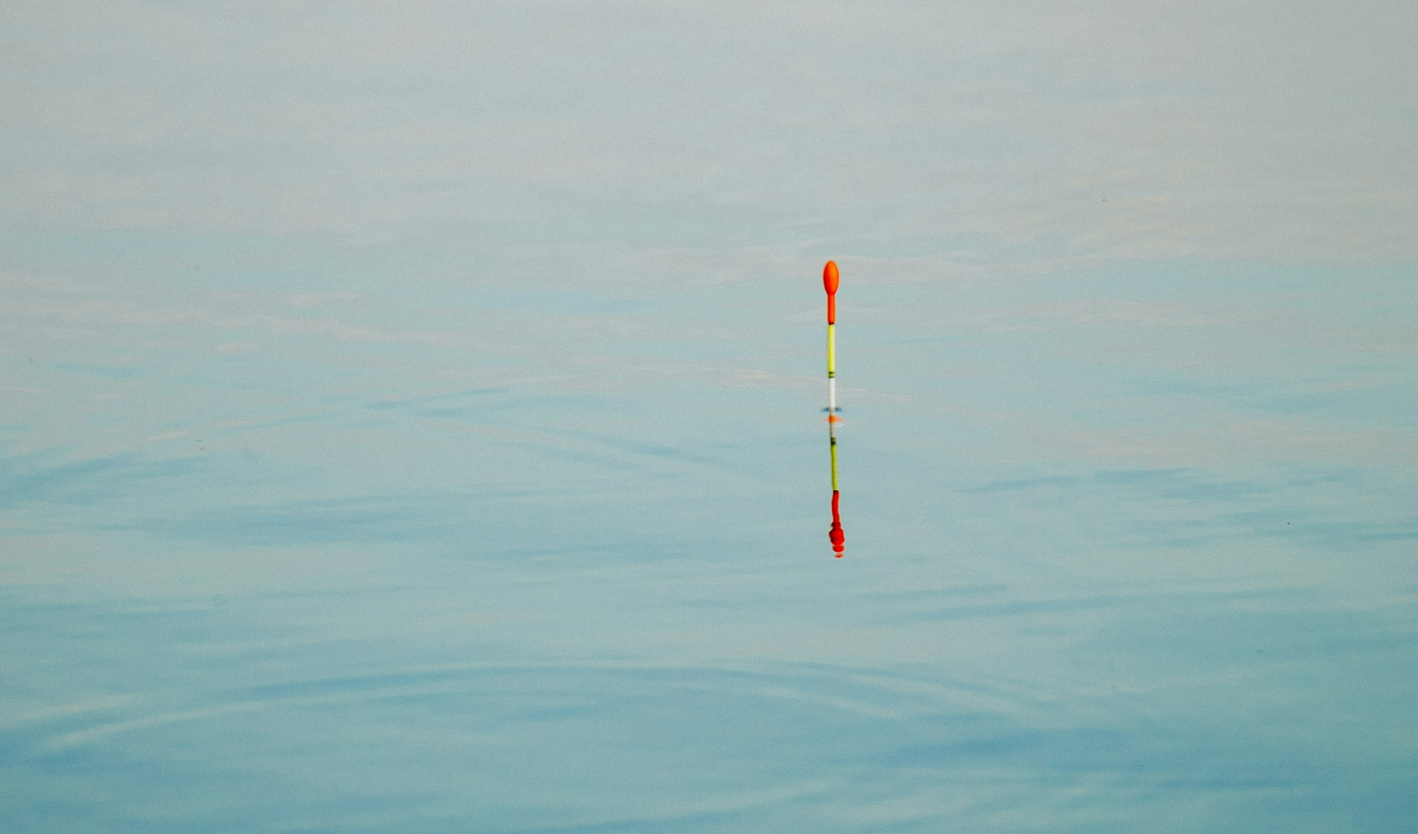
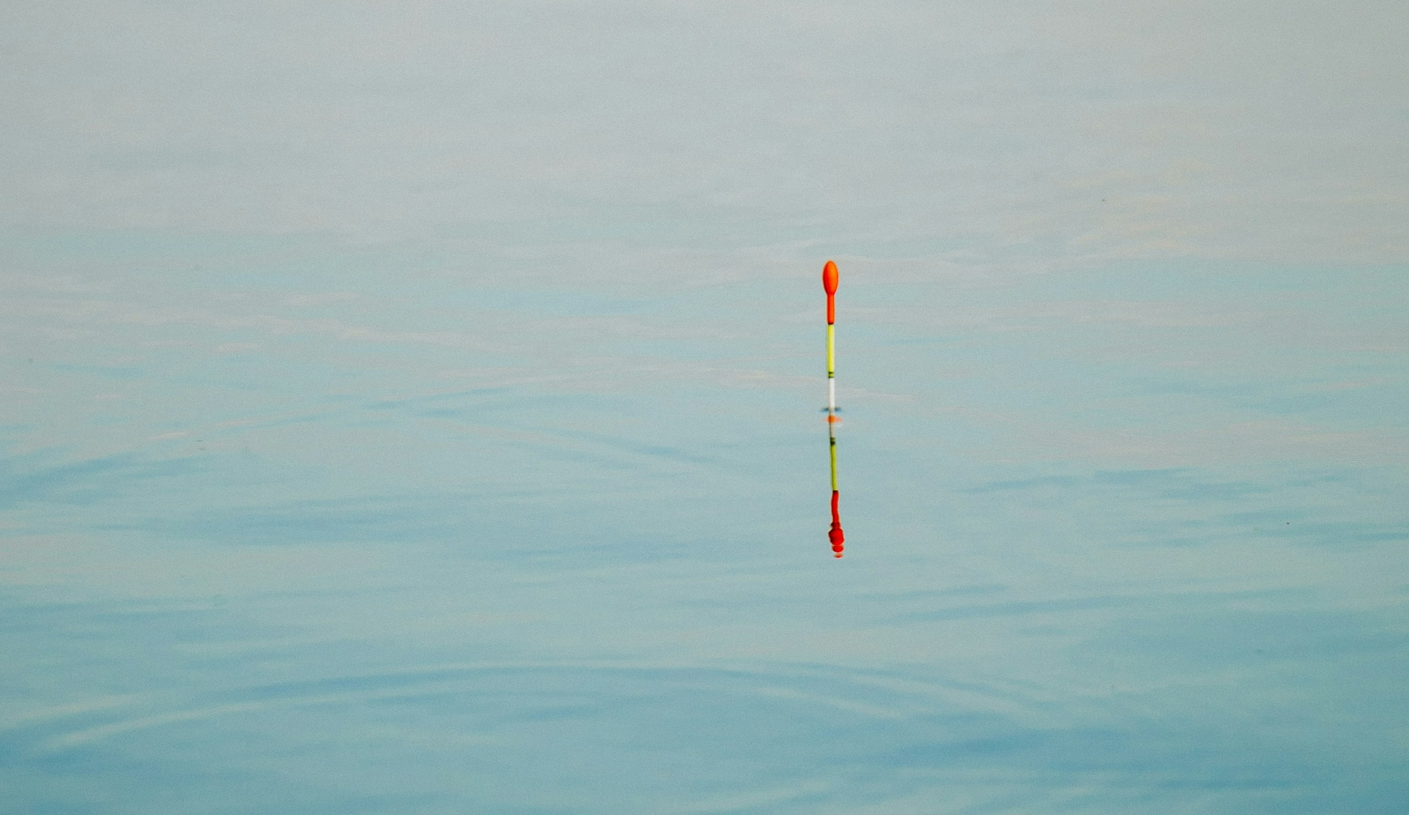
feat: nya uppdateringar fotopolicy

diff --git a/src/content.config.ts b/src/content.config.ts
@@ -8,6 +8,9 @@ const destinations = defineCollection({
     slug: z.string(),
     description: z.string(),
     heroImage: z.string(),
+    heroSource: z.enum(['illustration', 'photo']).default('illustration'),
+    heroCredit: z.string().optional(),        // fotografens namn, krävs när heroSource === 'photo'
+    heroCreditUrl: z.string().url().optional(),
     lat: z.number(),
     lng: z.number(),
     län: z.string(),
@@ -29,6 +32,9 @@ const species = defineCollection({
     slug: z.string(),
     description: z.string(),
     heroImage: z.string(),
+    heroSource: z.enum(['illustration', 'photo']).default('illustration'),
+    heroCredit: z.string().optional(),        // fotografens namn, krävs när heroSource === 'photo'
+    heroCreditUrl: z.string().url().optional(),
     season: z.string().optional().default(''),
     techniques: z.array(z.string()).optional().default([]),
     targetTechniques: z.array(z.string()).optional().default([]),
@@ -49,6 +55,9 @@ const techniques = defineCollection({
     slug: z.string(),
     description: z.string(),
     heroImage: z.string(),
+    heroSource: z.enum(['illustration', 'photo']).default('illustration'),
+    heroCredit: z.string().optional(),        // fotografens namn, krävs när heroSource === 'photo'
+    heroCreditUrl: z.string().url().optional(),
     targetSpecies: z.array(z.string()),
     difficulty: z.enum(['nybörjare', 'mellannivå', 'avancerad']),
     topDestinations: z.array(z.string()).optional().default([]),
@@ -66,6 +75,9 @@ const gearCategories = defineCollection({
     slug: z.string(),
     description: z.string(),
     heroImage: z.string(),
+    heroSource: z.enum(['illustration', 'photo']).default('illustration'),
+    heroCredit: z.string().optional(),        // fotografens namn, krävs när heroSource === 'photo'
+    heroCreditUrl: z.string().url().optional(),
     guideUrl: z.string().optional(),  // t.ex. "/guider/basta-fiskespon-2026/"
     excerpt: z.string().optional(),   // Korttext för indexsidan (40–80 tecken)
   }),
@@ -78,6 +90,9 @@ const gearReviews = defineCollection({
     slug: z.string(),
     description: z.string(),
     heroImage: z.string(),
+    heroSource: z.enum(['illustration', 'photo']).default('illustration'),
+    heroCredit: z.string().optional(),        // fotografens namn, krävs när heroSource === 'photo'
+    heroCreditUrl: z.string().url().optional(),
     brand: z.string(),
     category: z.string(),
     price: z.number(),
@@ -102,6 +117,9 @@ const articles = defineCollection({
     slug: z.string(),
     description: z.string(),
     heroImage: z.string(),
+    heroSource: z.enum(['illustration', 'photo']).default('illustration'),
+    heroCredit: z.string().optional(),        // fotografens namn, krävs när heroSource === 'photo'
+    heroCreditUrl: z.string().url().optional(),
     publishedAt: z.string(),
     updatedAt: z.string(),
     author: z.string(),

diff --git a/src/styles/tokens.css b/src/styles/tokens.css
@@ -68,7 +68,7 @@ html {
 }
 
 /* Håll Leaflets kontroller under den fixerade headern (z-1000) */
-.leaflet-top,
-.leaflet-bottom {
+.leaflet-container .leaflet-top,
+.leaflet-container .leaflet-bottom {
   z-index: 400;
 }
